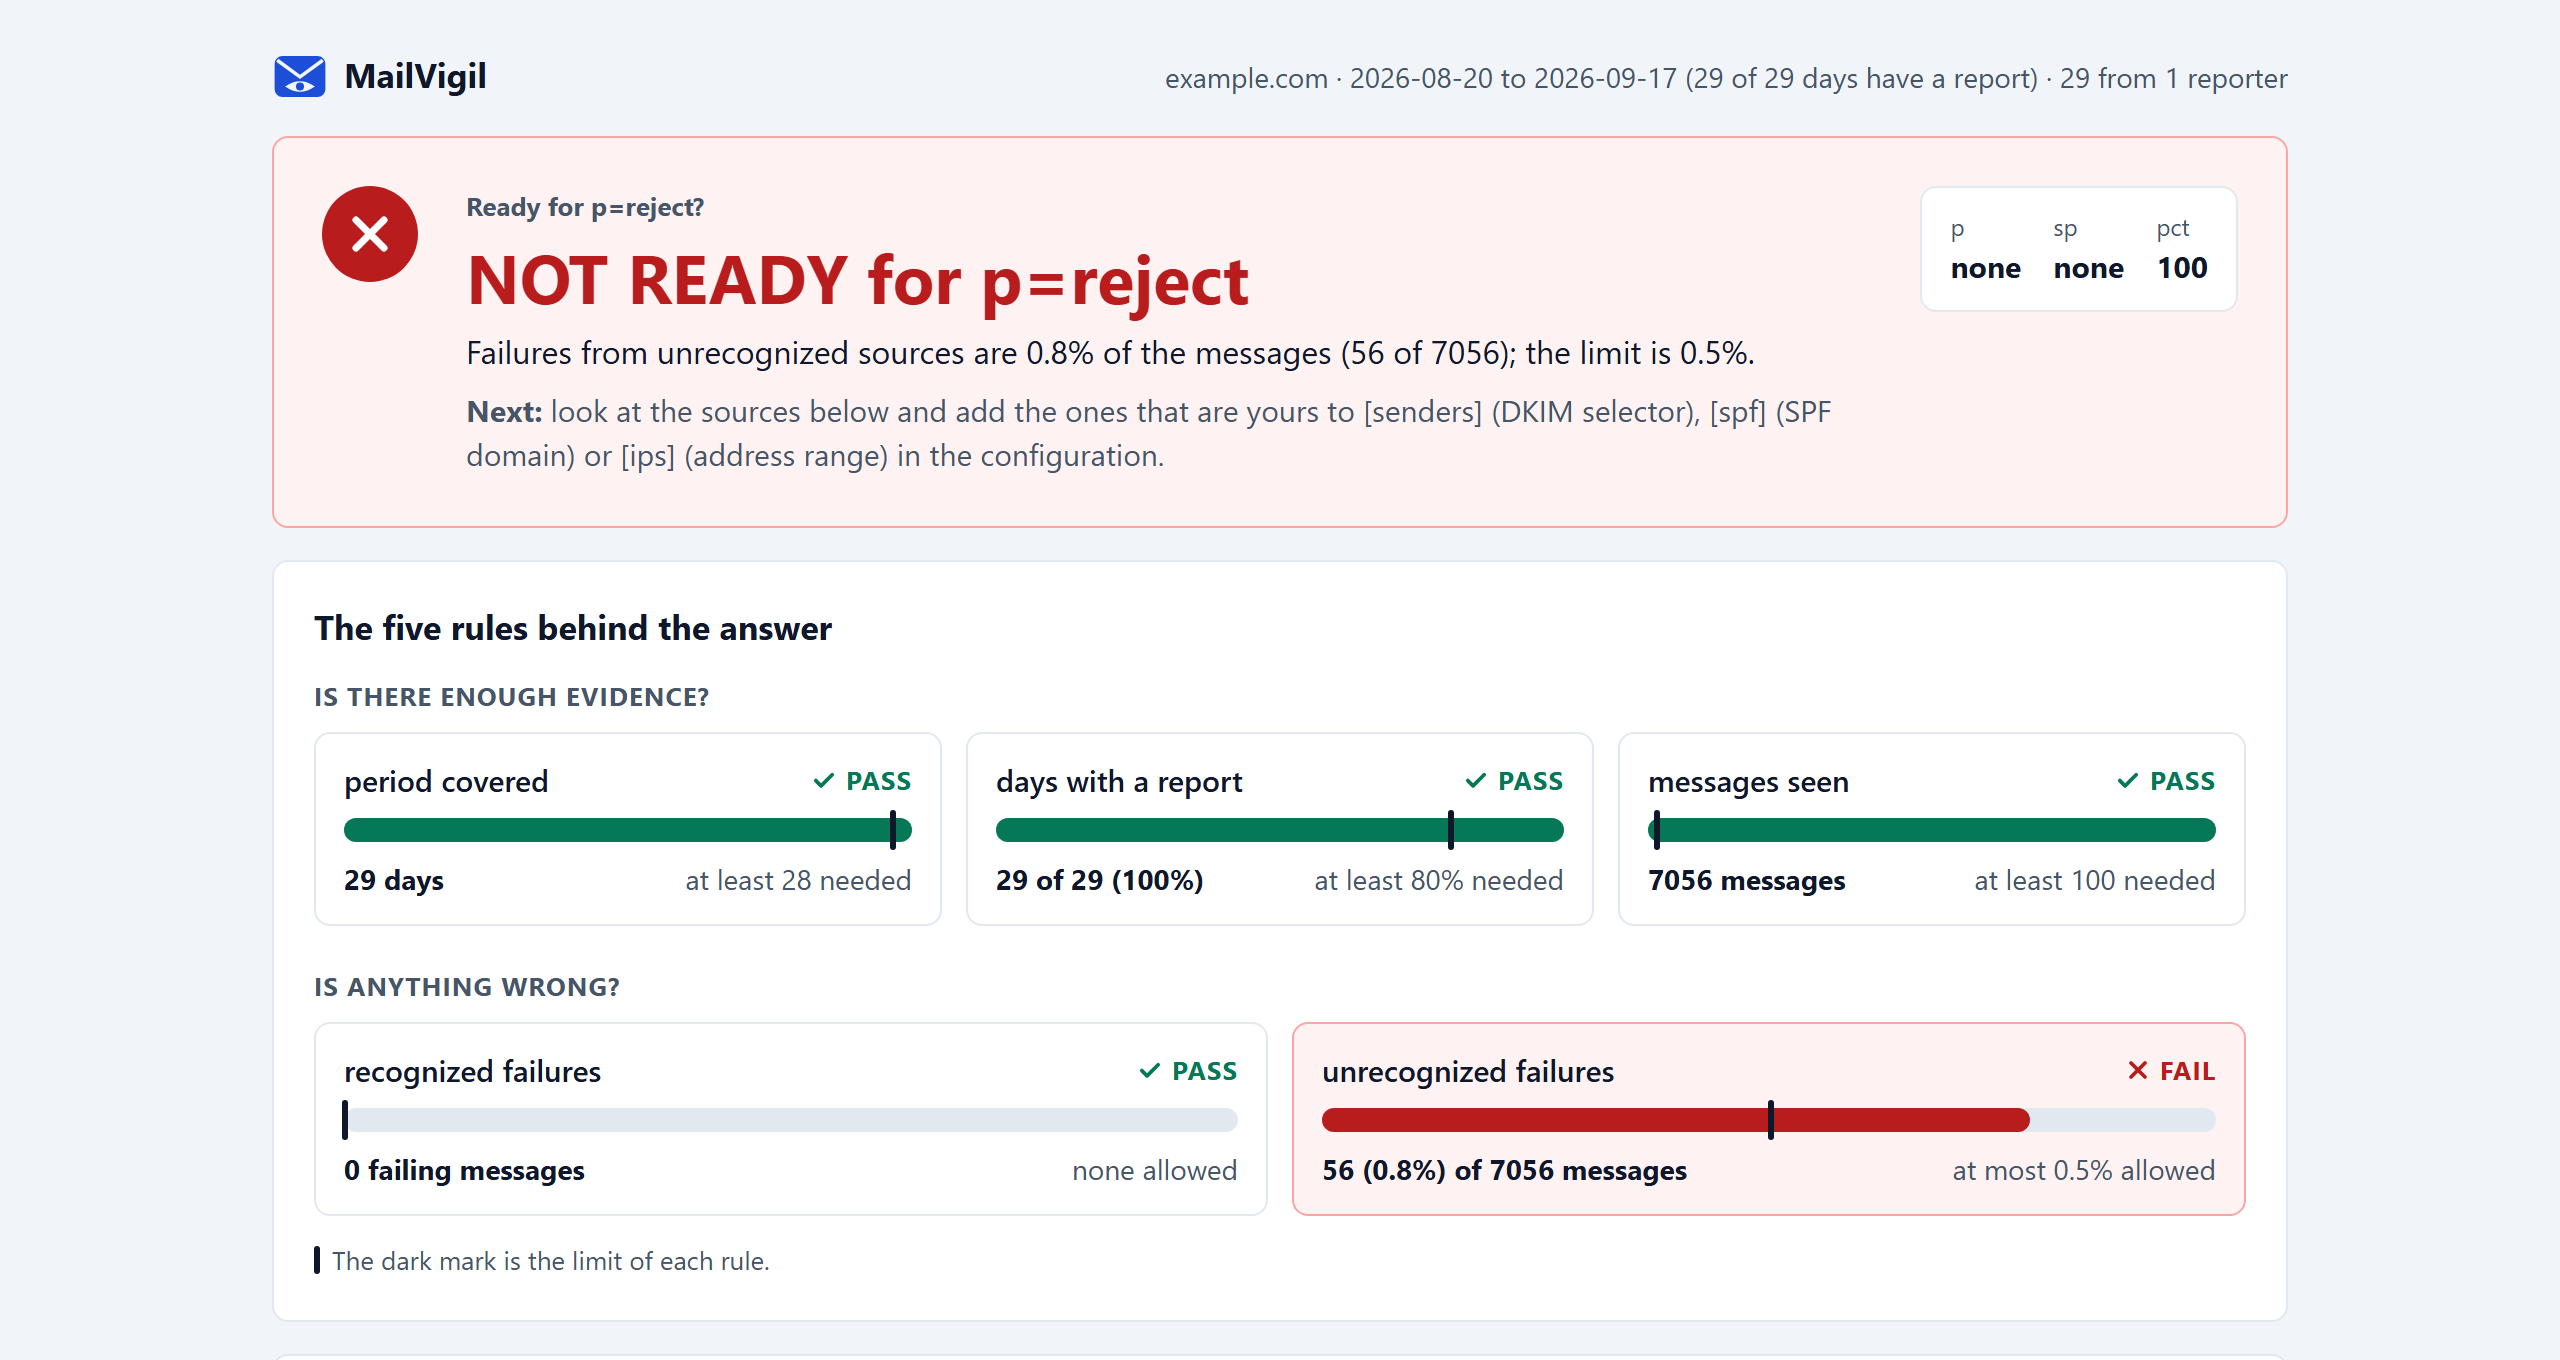
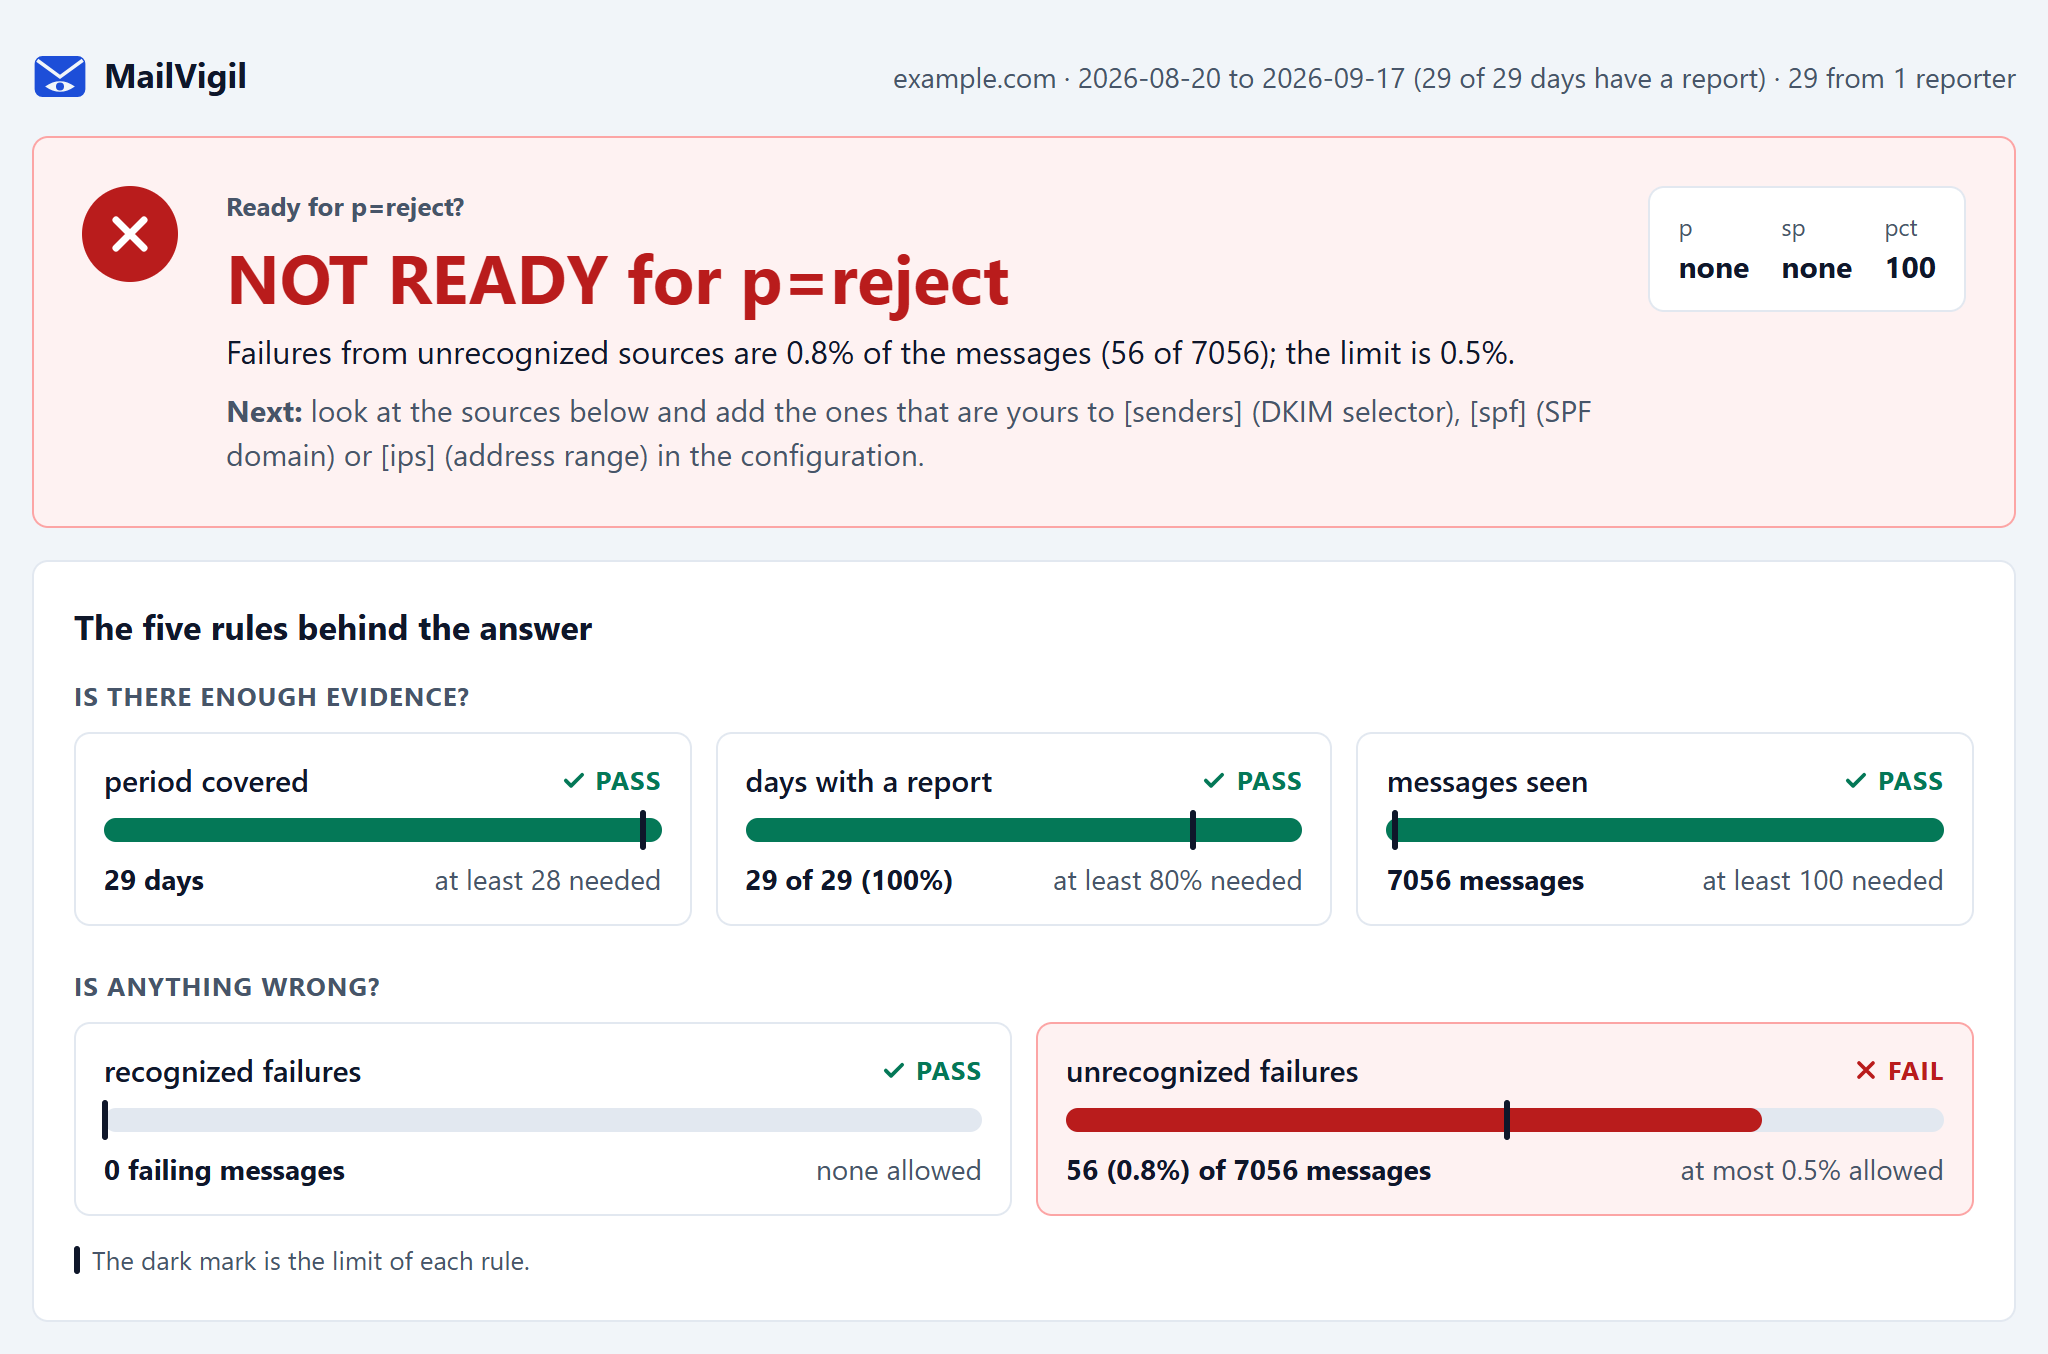
feat(mailvigil): regera a saída do terminal e as capturas do relatório (Etapa 2 da spec 005) (#35)
A saída do `mailvigil verdict` em português passa a ter acentos, como num
terminal UTF-8 (ADR-2), e as oito capturas do relatório são regeradas a
1024 e 360 px, a 2x, com o corte no fim do cartão das cinco regras.
Os resultados da etapa ficam registrados no tasks.md.

diff --git a/apps/mailvigil/src/terminais.ts b/apps/mailvigil/src/terminais.ts
@@ -1,8 +1,10 @@
 /**
  * @file Saída do terminal da página do MailVigil, como HTML.
  *
- * Saída real da ferramenta, tirada do mockup aprovado da spec 002. A em português vem de
- * `--lang pt-BR`, que imprime sem acentos, e a página mostra exatamente isso.
+ * Saída real do `mailvigil verdict` 1.7.0 sobre os relatórios sintéticos do gerador da própria ferramenta
+ * (ver `specs/005-pagina-mailvigil/fatos.md`), tirada num terminal UTF-8: o português vem de `--lang pt-BR`
+ * e leva acentos, como no terminal do visitante. É um recorte (veredito, motivo, origem e regras): a saída
+ * inteira traz ainda as notas e o próximo passo.
  * As classes `t-*` (cor) e as tags `<b>` e `<i>` são as do `terminal.css` do tema. O HTML é nosso e
  * entra por `set:html`; o comando digitado fica em `textos.ts`. Sem a linha do comando: o
  * `Terminal` a escreve.
@@ -11,19 +13,19 @@
 import type { Idioma } from "@paginas-vigil/tema/idiomas";
 
 const SAIDA_PT = [
-  '<b>Veredito do MailVigil para example.com:</b> <span class="t-bad t-b">NAO PRONTO</span> para p=reject',
+  '<b>Veredito do MailVigil para example.com:</b> <span class="t-bad t-b">NÃO PRONTO</span> para p=reject',
   "",
-  "Motivo: as falhas de origens nao reconhecidas sao 0.8% das mensagens (56 de",
-  "        7056); o limite e 0.5%.",
-  "  203.0.113.5  nao reconhecido: 56 mensagens com falha",
+  "Motivo: as falhas de origens não reconhecidas são 0.8% das mensagens (56 de",
+  "        7056); o limite é 0.5%.",
+  "  203.0.113.5  não reconhecido: 56 mensagens com falha",
   "",
   "<b>Regras</b>",
-  "  regra                       medido           necessario  resultado",
-  '  1  periodo coberto          29 dias          &gt;= 28       <span class="t-ok">passa</span>',
-  '  2  dias com relatorio       29 de 29 (100%)  &gt;= 80%      <span class="t-ok">passa</span>',
+  "  regra                       medido           necessário  resultado",
+  '  1  período coberto          29 dias          &gt;= 28       <span class="t-ok">passa</span>',
+  '  2  dias com relatório       29 de 29 (100%)  &gt;= 80%      <span class="t-ok">passa</span>',
   '  3  mensagens vistas         7056             &gt;= 100      <span class="t-ok">passa</span>',
   '  4  falhas reconhecidas      0                &lt;= 0        <span class="t-ok">passa</span>',
-  '  5  falhas nao reconhecidas  56 (0.8%)        &lt;= 0.5%     <span class="t-bad t-b">FALHA</span>',
+  '  5  falhas não reconhecidas  56 (0.8%)        &lt;= 0.5%     <span class="t-bad t-b">FALHA</span>',
   "",
   '<span class="t-dim">$</span> echo $?',
   "4",

diff --git a/specs/005-pagina-mailvigil/tasks.md b/specs/005-pagina-mailvigil/tasks.md
@@ -43,12 +43,12 @@ código (design, "Mockup").
 
 ## Etapa 2 — Saída do terminal e capturas
 
-- [ ] `apps/mailvigil/src/terminais.ts`: a saída real do `mailvigil verdict` em cada idioma (`--lang pt-BR` e o padrão), tirada num terminal UTF-8, do mesmo período não pronto do relatório, com as quebras de 80 colunas da ferramenta e o código de saída; conferir que cabe nas faixas do `terminal.css` (120 caracteres de comando, 80 linhas). — RF-07, ADR-2
-- [ ] Acentos na fonte do terminal: conferir no build servido que os glifos acentuados saem na fonte da página e com a largura dela, como se fez com a moldura na 004. Se faltar glifo no subconjunto, registrar aqui e tratar numa tarefa própria no tema, conferida nos dois sites. — RF-07, ADR-2
-- [ ] Capturas do relatório: o `--html` de cada idioma aberto numa janela de 1024 px (desktop) e de 360 px (celular), a 2x, nos dois temas (`emulateMediaFeatures`, sem alterar o relatório), cortado nas bordas do conteúdo e no fim de um bloco completo; oito arquivos em `apps/mailvigil/src/assets/relatorio/`, nos nomes atuais, substituindo os atuais. — RF-07, ADR-3
-- [ ] Conferir cada captura contra a página: texto de 14 px ou mais, sem margem vazia nem bloco cortado no meio, legenda e texto alternativo batendo com o que a imagem mostra, e o terminal contando a mesma história (mesmo veredito, motivo, contagens e alvo), nos dois idiomas. Anotar o peso de cada arquivo; se o Lighthouse estourar o limite, converter para WebP. — RF-07, RNF-04
-- [ ] `apps/mailvigil/src/componentes/Vitrine.astro`: conferir os imports das imagens; `width` e `height` vêm do `ImageMetadata`. — RF-07
-- [ ] Portão de qualidade e Lighthouse nos quatro perfis (os dois sites, celular e desktop). — Anotar o resultado real.
+- [x] `apps/mailvigil/src/terminais.ts`: a saída real do `mailvigil verdict` em cada idioma (`--lang pt-BR` e o padrão), tirada num terminal UTF-8, do mesmo período não pronto do relatório, com as quebras de 80 colunas da ferramenta e o código de saída; conferir que cabe nas faixas do `terminal.css` (120 caracteres de comando, 80 linhas). — RF-07, ADR-2 — Resultado (2026-11-06): saída do `mailvigil verdict` 1.7.0 sobre o período `before` (29 dias) do gerador, em terminal UTF-8, nos dois idiomas; o inglês já era idêntico e o português ganhou os acentos. A página mostra um recorte (veredito, motivo, origem e regras) e a legenda do terminal é revista na Etapa 3; os números (29 dias, 7056 mensagens, 56, 0,8%, `203.0.113.5`) e o código de saída 4 conferem.
+- [x] Acentos na fonte do terminal: conferir no build servido que os glifos acentuados saem na fonte da página e com a largura dela, como se fez com a moldura na 004. Se faltar glifo no subconjunto, registrar aqui e tratar numa tarefa própria no tema, conferida nos dois sites. — RF-07, ADR-2 — Resultado (2026-11-06, build servido, Chrome real, 1280 e 390 px): o subconjunto da JetBrains Mono (latim-1) tem todos os acentos do português; no terminal, as linhas acentuadas têm o mesmo avanço do ASCII (8,4 px a 14 px e 7,2 px a 12 px), sem rolagem lateral da página. Nada a tratar no tema.
+- [x] Capturas do relatório: o `--html` de cada idioma aberto numa janela de 1024 px (desktop) e de 360 px (celular), a 2x, nos dois temas (`emulateMediaFeatures`, sem alterar o relatório), cortado nas bordas do conteúdo e no fim de um bloco completo; oito arquivos em `apps/mailvigil/src/assets/relatorio/`, nos nomes atuais, substituindo os atuais. — RF-07, ADR-3 — Resultado (2026-11-06): geradas com `puppeteer-core` e o Chrome instalado a partir dos `--html` de `before` (`--lang pt-BR` e padrão), a 1024 e 360 px, a 2x, com `prefers-color-scheme` emulado; corte no fim do cartão das cinco regras (o gráfico dia a dia fica de fora). As anteriores eram de 1280 e 390 px e terminavam no meio do bloco seguinte.
+- [x] Conferir cada captura contra a página: texto de 14 px ou mais, sem margem vazia nem bloco cortado no meio, legenda e texto alternativo batendo com o que a imagem mostra, e o terminal contando a mesma história (mesmo veredito, motivo, contagens e alvo), nos dois idiomas. Anotar o peso de cada arquivo; se o Lighthouse estourar o limite, converter para WebP. — RF-07, RNF-04 — Resultado (2026-11-06): o texto de leitura do relatório tem de 14 a 17 px e o veredito 34 px; só os rótulos de apoio ficam abaixo de 14 px (13 px: "Pronto para p=reject?", títulos de grupo e "passa"/"falha"; 12 px: `p`, `sp` e `pct`), tamanhos que são da ferramenta (`html_style.py`), não da página, e a figura sai a 1:1 no desktop e a 0,97x no celular (12 a 12,6 px). Fica como achado de gosto para o mantenedor decidir, junto com a revisão da Etapa 3 (a ferramenta não é alterada nesta spec); sem margem vazia nem bloco cortado; legenda e texto alternativo batem (veredito e cinco regras). Pesos: 182 a 208 KB cada (1,5 MB os oito; a página carrega um por vez, por `picture`), Lighthouse sem aviso de peso. Pendência para a Etapa 3: o `lead` ainda promete "o que aconteceu dia a dia", que a captura não mostra.
+- [x] `apps/mailvigil/src/componentes/Vitrine.astro`: conferir os imports das imagens; `width` e `height` vêm do `ImageMetadata`. — RF-07 — Resultado (2026-11-06): os oito imports seguem os nomes; as imagens saem com `width` e `height` do arquivo (2048x1354 no desktop; 720x2752 e 720x2706 no celular), sem deslocamento de layout no Lighthouse.
+- [x] Portão de qualidade e Lighthouse nos quatro perfis (os dois sites, celular e desktop). — Anotar o resultado real. — Resultado (2026-11-06): `pnpm format:check`, `pnpm lint`, `pnpm typecheck`, `pnpm test` e `pnpm build` sem erro, `verificar-dist: dist sem problemas` nos dois sites (com medição); Lighthouse CI nos quatro perfis (webvigil e mailvigil, celular e desktop) sem erro e sem aviso.
 
 ## Etapa 3 — Fatos e textos
 
